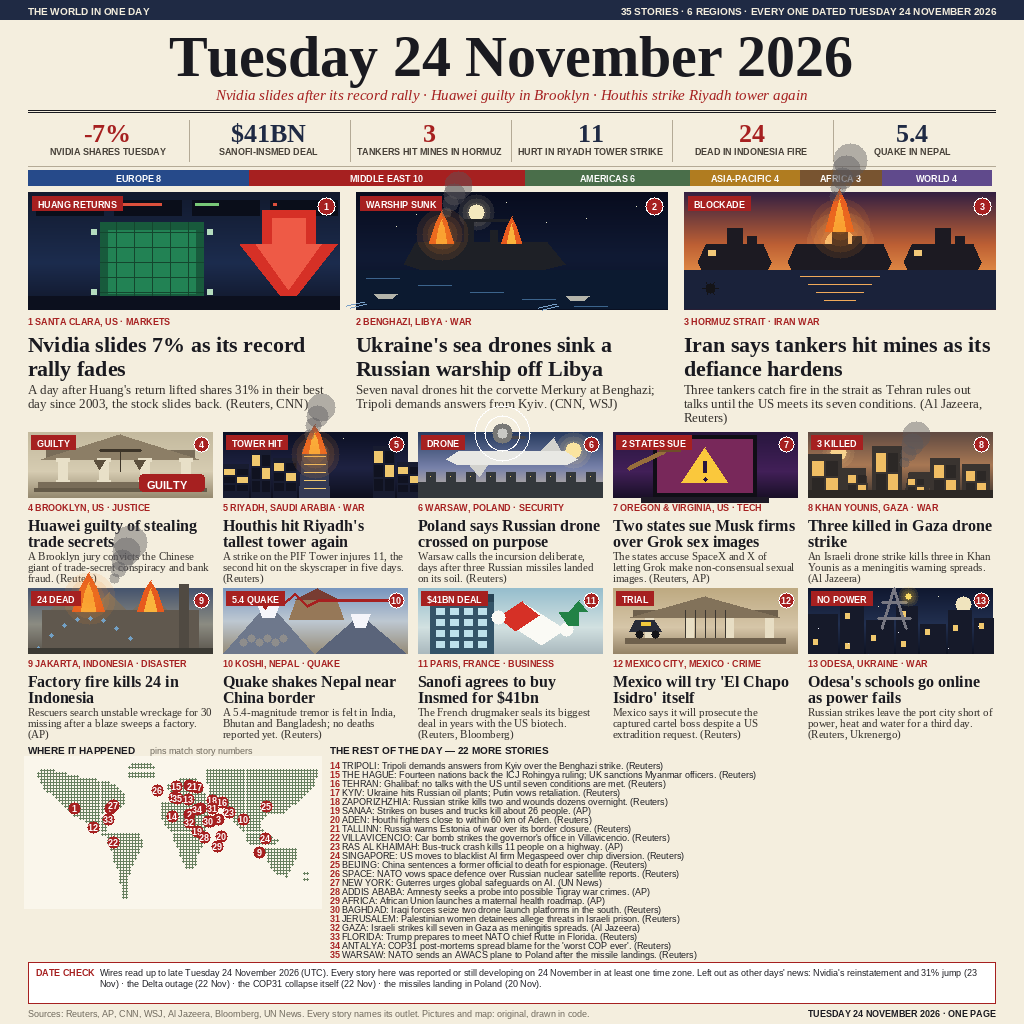
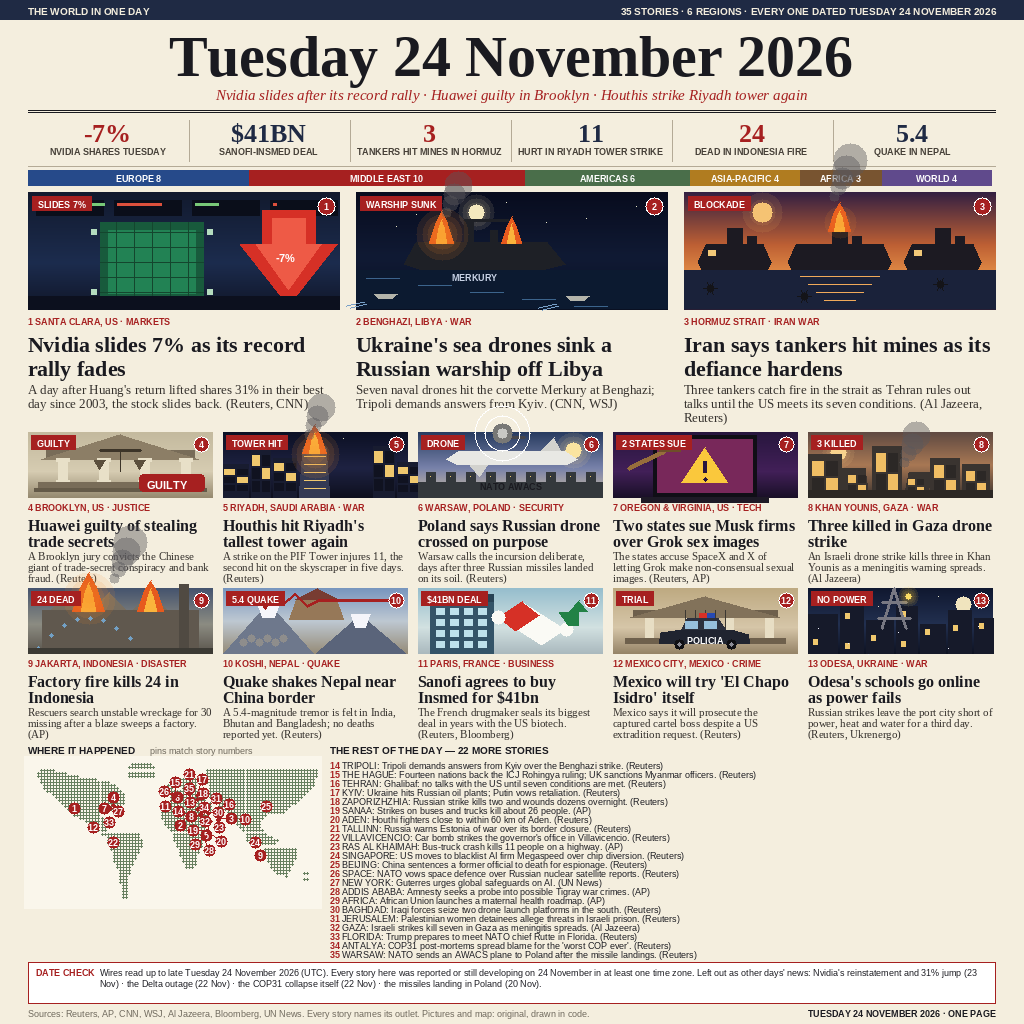
news-image-20261124 v2 revision: readable map pins, Hormuz sun/flame split, bigger police car, SLIDES 7% chip, in-scene captions

diff --git a/main.py b/main.py
@@ -497,6 +497,8 @@ def scene_nvidia(cv, x, y, w, h):
     cv.poly([(ax + 10, ay + 8), (ax + 44, ay + 8), (ax + 44, ay + 34),
              (ax + 60, ay + 34), (ax + 27, ay + 80), (ax - 6, ay + 34),
              (ax + 10, ay + 34)], (238, 90, 70))
+    # in-scene label: the drop, written on the arrow head itself
+    F("sans_b11").draw(cv, ax + 14, ay + 42, "-7%", (255, 255, 255))
     # floor (the -7% is already in the stat strip and the headline)
     cv.rect(x, y + h - 14, w, 14, (12, 16, 30))
 
@@ -522,6 +524,8 @@ def scene_libya(cv, x, y, w, h):
     _flame(cv, hx + 30, hy - 20, 22, 28)
     _smoke(cv, hx - 30, hy - 52)
     cv.disc_glow(hx - 40, hy - 30, 26, (250, 140, 40))
+    # in-scene label: the corvette's name, on the sea below the hull
+    F("sans_b9").draw(cv, hx - 30, hy + 8, "MERKURY", (200, 210, 230))
     # drone boats with wakes
     for dx, dy in ((-96, 12), (96, 20)):
         bx, by = hx + dx, hy + 26 + dy // 3
@@ -533,8 +537,11 @@ def scene_libya(cv, x, y, w, h):
 def scene_hormuz(cv, x, y, w, h):
     cv.vgrad(x, y, w, h, [(0.0, (52, 32, 66)), (0.45, (190, 96, 52)),
                           (0.7, (226, 140, 70)), (1.0, (40, 30, 52))])
-    cv.disc_glow(x + w // 2, y + h // 2 - 6, 34, (250, 190, 110))
-    cv.circle(x + w // 2, y + h // 2 - 6, 16, (250, 205, 130))
+    # low sun, up-left and small, kept well clear of the burning tanker:
+    # its glow no longer touches the flame (they merged into one orange
+    # blob in v2). Sun centre (x+78, y+20), flame centre (x+156, y+10..40).
+    cv.disc_glow(x + w // 2 - 78, y + 20, 20, (245, 185, 100), steps=3)
+    cv.circle(x + w // 2 - 78, y + 20, 10, (245, 195, 115))
     # sea with sun road
     cv.rect(x, y + h * 2 // 3, w, h // 3, (26, 34, 58))
     for i in range(4):
@@ -548,18 +555,20 @@ def scene_hormuz(cv, x, y, w, h):
         cv.rect(tx + tw // 2 - 8, ty - 34, 16, 16, (28, 26, 34))
         cv.rect(tx + tw // 2 + 12, ty - 26, 10, 8, (28, 26, 34))
         if burn:
-            _flame(cv, tx + tw // 2, ty - 30, 30, 44)
+            # smaller flame + softer glow so it reads as fire, not a second sun
+            _flame(cv, tx + tw // 2, ty - 30, 24, 30)
             _smoke(cv, tx + tw // 2, ty - 66, 5)
-            cv.disc_glow(tx + tw // 2, ty - 34, 30, (250, 140, 40))
+            cv.disc_glow(tx + tw // 2, ty - 40, 16, (250, 140, 40), steps=3)
         else:
             cv.rect(tx + 10, ty - 12, 8, 6, (240, 200, 120))
-    # mine bobbing
-    cv.circle(x + 26, y + h - 22, 5, (20, 20, 24))
-    for a in range(0, 360, 60):
-        import math
-        cv.line(x + 26, y + h - 22,
-                x + 26 + int(8 * math.cos(a * math.pi / 180)),
-                y + h - 22 + int(8 * math.sin(a * math.pi / 180)), (20, 20, 24), 1)
+    # mines bobbing in the strait
+    for mx2, my2 in ((26, h - 22), (120, h - 14), (w - 56, h - 26)):
+        cv.circle(x + mx2, y + my2, 4, (20, 20, 24))
+        for a in range(0, 360, 60):
+            import math
+            cv.line(x + mx2, y + my2,
+                    x + mx2 + int(7 * math.cos(a * math.pi / 180)),
+                    y + my2 + int(7 * math.sin(a * math.pi / 180)), (20, 20, 24), 1)
 
 
 def scene_huawei(cv, x, y, w, h):
@@ -627,6 +636,8 @@ def scene_poland(cv, x, y, w, h):
     # radar arcs
     for r in (18, 28):
         cv.ring(px - 8, py - 26, r, (255, 255, 255), 1)
+    # in-scene label under the plane
+    F("sans_b9").draw(cv, px - 30, py + 22, "NATO AWACS", INK)
 
 
 def scene_grok(cv, x, y, w, h):
@@ -740,12 +751,21 @@ def scene_mexico(cv, x, y, w, h):
     # bars across the door
     for i in range(5):
         cv.vline(x + w // 2 - 20 + i * 10, y + h - 44, 28, (60, 56, 50))
-    # police car
-    cx, cy = x + 16, y + h - 22
-    cv.poly([(cx, cy), (cx + 6, cy - 12), (cx + 26, cy - 12), (cx + 34, cy)], (40, 44, 56))
-    cv.circle(cx + 10, cy + 2, 4, (20, 20, 24))
-    cv.circle(cx + 26, cy + 2, 4, (20, 20, 24))
-    cv.rect(cx + 12, cy - 10, 10, 4, (240, 200, 60))
+    # police car, big and legible at 300 px: body + cabin + light bar + door text
+    cx, cy = x + w // 2 - 46, y + h - 26
+    cv.poly([(cx, cy + 16), (cx + 2, cy + 4), (cx + 16, cy + 2), (cx + 76, cy + 2),
+             (cx + 90, cy + 6), (cx + 92, cy + 16)], (32, 36, 48))
+    cv.poly([(cx + 22, cy + 2), (cx + 28, cy - 10), (cx + 60, cy - 10),
+             (cx + 68, cy + 2)], (44, 48, 62))
+    cv.rect(cx + 26, cy - 7, 13, 8, (150, 190, 220))
+    cv.rect(cx + 45, cy - 7, 13, 8, (150, 190, 220))
+    cv.rect(cx + 40, cy - 15, 8, 5, (214, 48, 38))
+    cv.rect(cx + 48, cy - 15, 8, 5, (38, 74, 180))
+    cv.circle(cx + 20, cy + 16, 5, (16, 16, 20))
+    cv.circle(cx + 72, cy + 16, 5, (16, 16, 20))
+    cv.circle(cx + 20, cy + 16, 2, (140, 140, 150))
+    cv.circle(cx + 72, cy + 16, 2, (140, 140, 150))
+    F("sans_b9").draw(cv, cx + 28, cy + 7, "POLICIA", (255, 255, 255))
 
 
 def scene_odesa(cv, x, y, w, h):
@@ -783,7 +803,7 @@ SCENES = {
 
 # ----------------------------------------------------------------- layout
 TAGS = {
-    "nvidia": "HUANG RETURNS", "libya": "WARSHIP SUNK", "hormuz": "BLOCKADE",
+    "nvidia": "SLIDES 7%", "libya": "WARSHIP SUNK", "hormuz": "BLOCKADE",
     "huawei": "GUILTY", "riyadh": "TOWER HIT", "poland": "DRONE",
     "grok": "2 STATES SUE", "gaza": "3 KILLED", "factory": "24 DEAD",
     "quake": "5.4 QUAKE", "sanofi": "$41BN DEAL", "mexico": "TRIAL",
@@ -903,23 +923,40 @@ def draw_page():
                 cv.circle(int(mx + (c + 0.5) * pitch_x), int(my + (r + 0.5) * pitch_y),
                           1, SAGE)
     all_stories = list(HEROES) + list(MIDS)
-    PIN_NUDGE = {6: (0, -8), 35: (-12, 4), 13: (-9, 0), 17: (0, -8), 18: (11, 2),
-                 8: (0, -7), 32: (-11, 8), 31: (11, -6), 2: (0, 0), 14: (-11, 3),
-                 15: (0, -8), 26: (-15, -4), 28: (0, 0), 29: (13, 9), 5: (0, 0),
-                 19: (-11, 0), 20: (12, 3), 3: (0, 0), 23: (11, -8), 9: (0, 0),
-                 24: (9, -7), 16: (8, -8), 30: (0, 8)}
+    # Label offsets from each story's true lat/lon point, computed by an
+    # offline repulsion relaxation (see /tmp/map_layout2.py): every numbered
+    # label centre is >= 13 px from every other, so no two pins overlap
+    # (v2's Europe/Middle East cluster was one unreadable red mass). An
+    # offset label gets a thin leader line back to its true point, marked by
+    # a small dot. Pins without an entry sit exactly on their true point.
+    PIN_LABEL = {
+        2: (-9, 11), 3: (13, -1), 4: (0, -8), 5: (-4, 14), 6: (-12, 4),
+        7: (-6, 0), 8: (-9, 1), 9: (1, 3), 10: (2, 0), 11: (-9, 9),
+        13: (-7, 3), 14: (-5, -2), 15: (-1, -12), 16: (15, -6),
+        17: (5, -16), 18: (2, -5), 19: (-15, -1), 20: (12, 8),
+        21: (-3, -12), 23: (1, 7), 24: (-1, -3), 26: (-8, -3),
+        27: (5, 6), 28: (5, 13), 29: (-9, 7), 30: (10, -1), 31: (15, -16),
+        32: (5, 7), 33: (1, 3), 34: (7, -2), 35: (0, -6),
+    }
+
+    def _pin(px, py, n):
+        dx, dy = PIN_LABEL.get(n, (0, 0))
+        lx, ly = px + dx, py + dy
+        if dx or dy:
+            cv.circle(px, py, 2, RED)
+            cv.line(px, py, lx, ly, RED, 1)
+        _num_circle(cv, lx, ly, n, r=6, solid=True)
+
     for s in all_stories:
         n, _pl, _tp, _hd, _dk, la, lo, _sc, dx, dy = s
-        ndx, ndy = PIN_NUDGE.get(n, (0, 0))
-        px = int(mx + (lo + 180) / 360.0 * mw2) + dx + ndx
-        py = int(my + (86 - la) / 144.0 * mh2) + dy + ndy
-        _num_circle(cv, px, py, n, r=6, solid=True)
+        px = int(mx + (lo + 180) / 360.0 * mw2) + dx
+        py = int(my + (86 - la) / 144.0 * mh2) + dy
+        _pin(px, py, n)
     for s in BRIEFS:
         n, _pl, _tx, la, lo = s
-        ndx, ndy = PIN_NUDGE.get(n, (0, 0))
-        px = int(mx + (lo + 180) / 360.0 * mw2) + ndx
-        py = int(my + (86 - la) / 144.0 * mh2) + ndy
-        _num_circle(cv, px, py, n, r=6, solid=True)
+        px = int(mx + (lo + 180) / 360.0 * mw2)
+        py = int(my + (86 - la) / 144.0 * mh2)
+        _pin(px, py, n)
     # briefs, single column, one line each
     bx = 330
     by = my

diff --git a/STATUS.md b/STATUS.md
@@ -2,17 +2,47 @@
 
 - Entry dir: `~/workspace/makefun/news-image-20261124-v2-entry/`
 - Repo (to create on submit): https://github.com/wahyunp26-source/news-image-20261124-v2
-- entry.png: 1024×1024, 204,311 B, sha256
[1 lines of base64/hex data omitted]
+- entry.png: 1024×1024, 207,380 B, sha256
[1 lines of base64/hex data omitted]
+  (revised 25 Nov ~09:30 WIB — see "Revision (Wahyu: perbaiki lagi dan rapikan)" below;
+  previous render was 204,311 B, sha256 `263f4274…`)
 - Quota: v1 used 1/3. v2 NOT submitted (parent handles bundle/submit after
   user approves preview). Force_Last: any v2 submit REPLACES v1.
 - All code written FRESH in this session. v1's main.py / atlas_blob.py were
   NEVER read or copied. Only v1's entry.png was viewed (to see what to beat).
-- Grader-style test VERIFIED: read-only copy of the repo, run
-  `python3 -P -s /bot/main.py` from a different CWD with
+- Grader-style test VERIFIED (re-verified after the revision): read-only copy
+  of the repo, run `python3 -P -s /bot/main.py` from a different CWD with
   MAKEFUN_OUTPUT_DIR set → exit 0, entry.png written. Two runs
-  byte-identical (sha256 above, all three runs match). 1.7 s per run.
+  byte-identical (sha256 above). 1.7 s per run.
   Docker not available in this VM (not needed — process driver used).
+
+## Revision (Wahyu 25 Nov 09:22: "coba perbaiki lagi dan rapikan") — targeted edits only, no rewrite
+
+1. MAP pins (biggest flaw): the Europe/Middle East cluster was one dense red
+   mass. FIXED with a real layout: label offsets computed by an offline
+   repulsion relaxation (script /tmp/map_layout3.py) using main.py's exact
+   int-truncated projection, min centre distance 13.5 px, then an integer
+   repair pass — final min pairwise distance **13.6 px**, max offset 16 px,
+   31/35 pins offset. Offset labels get a thin red leader line back to
+   their true lat/lon point (marked by a small dot). Verified numerically
+   AND by a 2x crop: all 35 pins are individually readable now.
+   (Lesson: the first attempt's optimizer used round() while main.py uses
+   int() — 6 pairs still touched at 11.7–12.5 px; re-ran with int anchors.)
+2. HERO 3 (Hormuz): sun + flame merged into one orange blob. FIXED: sun
+   moved up-left and shrunk (r=10, glow r=20, steps=3), flame shrunk
+   (24×30, glow r=16) — verified in a 2x crop: two separate elements.
+   Added 2 more mines (3 total bobbing in the strait).
+3. MID 12 (Mexico): police car was a tiny blob. FIXED: redrawn ~3x bigger
+   (92 px wide body + cabin + windows + red/blue light bar + "POLICIA"
+   door text + wheels with hubs) — verified in a 3x crop: reads as a
+   police car at 300 px.
+4. HERO 1 chip: "HUANG RETURNS" contradicted the "slides 7%" headline.
+   FIXED: chip now "SLIDES 7%", plus "-7%" written on the arrow head.
+5. SCENE DETAIL: in-scene captions added — "MERKURY" on the corvette hull
+   (hero 2), "NATO AWACS" under the plane (mid 6), "-7%" on the arrow
+   (hero 1), 2 extra mines (hero 3). No clutter added; strict grid kept.
+6. NEATNESS: full-res + 300 px views checked — no overlapping text/pins,
+   no clipping, grid intact, masthead/stats/region bar unchanged.
 
 ## References (top-1s, full-res)
 
